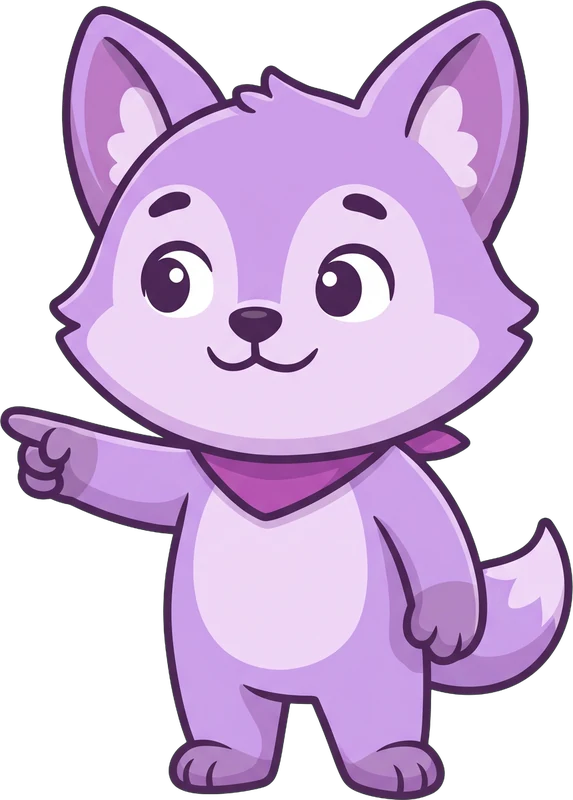
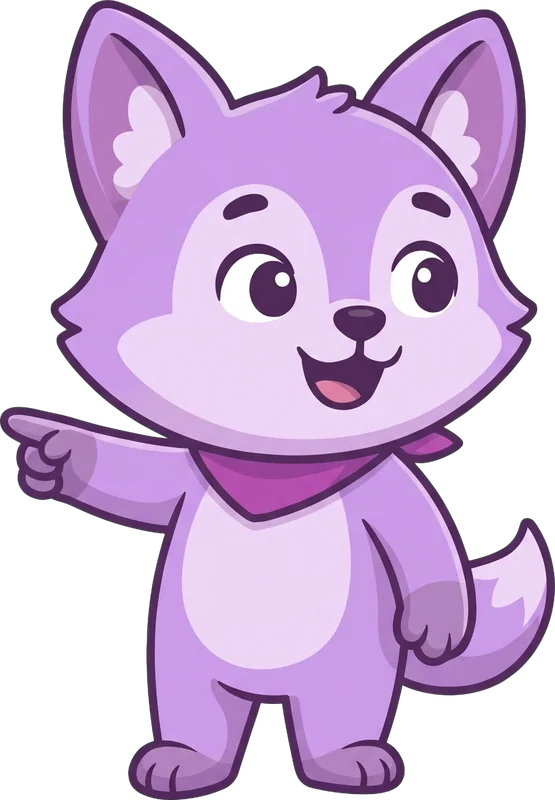
Mascot: left-pointing pose looks where it points
The generated left-pointing art looked to the right. Use a mirror of the
right-pointing pose instead.

Claude-Session: https://claude.ai/code/session_01B74GG3YDkozARGx1eLhWoZ

diff --git a/src/components/mascot/Mascot.tsx b/src/components/mascot/Mascot.tsx
@@ -16,7 +16,8 @@ export type MascotPose =
   | "notepad";
 
 const POSES: Record<MascotPose, { src: string; w: number; h: number; alt: string }> = {
-  "point-left": { src: "/mascot/kenzo-point-left.webp", w: 573, h: 800, alt: "Kenzo pointing" },
+  // Mirror of point-right: Gemini's left-pointing art looked the other way.
+  "point-left": { src: "/mascot/kenzo-point-left.webp", w: 555, h: 800, alt: "Kenzo pointing" },
   "point-right": { src: "/mascot/kenzo-point-right.webp", w: 555, h: 800, alt: "Kenzo pointing" },
   present: { src: "/mascot/kenzo-present.webp", w: 655, h: 800, alt: "Kenzo with arms open" },
   thinking: { src: "/mascot/kenzo-thinking.webp", w: 502, h: 800, alt: "Kenzo thinking" },
